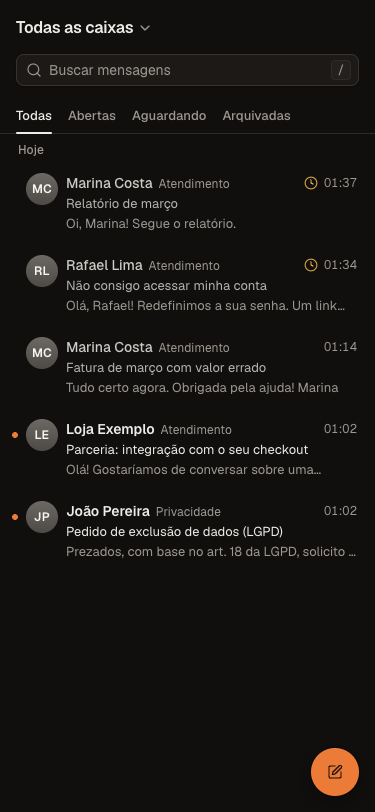
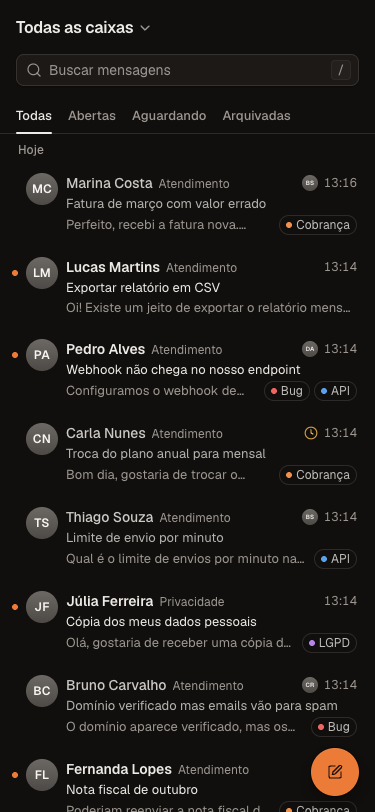
docs(web): screenshots and README for the new UI
Fresh light/dark screenshots at 1440px and 375px from a local ember dev with demo data: inbox list (tags,
assignees, waiting), conversation with the activity timeline, compose dock with signature, tag menu, command
palette, Adiadas, admin overview, and the phone list, conversation and full-screen composer. The web README
gets a Screenshots section, a Phone row, and how to sign in and make the demo member an admin; the root
README lists the web inbox.

diff --git a/apps/web/README.md b/apps/web/README.md
@@ -8,15 +8,27 @@ Stack: [Vite+](https://viteplus.dev) (`vp`), React 19, [shadcn/ui](https://ui.sh
 Better Auth's client, and Ember's React client (`@freecorps/ember-react` over `@freecorps/ember-client`). It calls the
 same `inbox:*` functions as mobile.
 
-| Inbox                                             | Conversation                                              | Compose                                               |
+## Screenshots
+
+Taken at 1440 × 900 and 375 × 812 from a local `ember dev` with the sample data under [Develop](#develop), a few more
+inbound demo conversations and a second teammate (`.test` addresses only), in pt-BR.
+
+| Inbox: tags, assignees, Aguardando                | Conversation: activity, note, signature                   | Compose windows (one open, one minimized)             |
 | ------------------------------------------------- | --------------------------------------------------------- | ----------------------------------------------------- |
 | ![Inbox, light](docs/screenshots/inbox-light.png) | ![Conversation, light](docs/screenshots/thread-light.png) | ![Compose, light](docs/screenshots/compose-light.png) |
 | ![Inbox, dark](docs/screenshots/inbox-dark.png)   | ![Conversation, dark](docs/screenshots/thread-dark.png)   | ![Compose, dark](docs/screenshots/compose-dark.png)   |
 
-| ⌘K                                                            | Phone (375px)                                     |
-| ------------------------------------------------------------- | ------------------------------------------------- |
-| ![Command palette, light](docs/screenshots/palette-light.png) | ![Phone, light](docs/screenshots/phone-light.png) |
-| ![Command palette, dark](docs/screenshots/palette-dark.png)   | ![Phone, dark](docs/screenshots/phone-dark.png)   |
+| Tag menu (`l`)                                      | ⌘K on the open conversation                                   | Adiadas (snoozed)                                     |
+| --------------------------------------------------- | ------------------------------------------------------------- | ----------------------------------------------------- |
+| ![Tag menu, light](docs/screenshots/tags-light.png) | ![Command palette, light](docs/screenshots/palette-light.png) | ![Snoozed, light](docs/screenshots/snoozed-light.png) |
+| ![Tag menu, dark](docs/screenshots/tags-dark.png)   | ![Command palette, dark](docs/screenshots/palette-dark.png)   | ![Snoozed, dark](docs/screenshots/snoozed-dark.png)   |
+
+| Phone: list                                       | Phone: conversation                                                   | Phone: composer (full screen)                                      |
+| ------------------------------------------------- | --------------------------------------------------------------------- | ------------------------------------------------------------------ |
+| ![Phone, light](docs/screenshots/phone-light.png) | ![Phone conversation, light](docs/screenshots/phone-thread-light.png) | ![Phone composer, light](docs/screenshots/phone-compose-light.png) |
+| ![Phone, dark](docs/screenshots/phone-dark.png)   | ![Phone conversation, dark](docs/screenshots/phone-thread-dark.png)   | ![Phone composer, dark](docs/screenshots/phone-compose-dark.png)   |
+
+The admin screen is under [Administration](#administration).
 
 ## Features
 
@@ -44,6 +56,7 @@ same `inbox:*` functions as mobile.
 | Keyboard                          | `j`/`k` (or ↓/↑) move through the list, and open the next thread when one is already open. `Enter`/`o` opens. `x` selects, `shift+j`/`shift+k` extend the selection. `e` archives (the selection when there is one). `u` marks unread. `h` snoozes, `l` tags. `r` replies. `n` writes a note. `c` composes. `i` shows the context panel. `/` searches. `[` collapses or expands the sidebar. `⌘K` / `Ctrl+K` opens the command palette (go to a view, mailbox or admin section, search conversations, archive / assign / change status on the open one, compose, theme, density, layout), with no open/close animation. `Esc` leaves a field or closes the thread. `?` lists all the shortcuts. Shortcuts keep working after a click inside an email (the frame forwards keys). `⌘/Ctrl+Enter` sends, `⌘/Ctrl+Shift+Enter` sends later. In a compose window `Esc` minimizes it and the inbox keys stay off.                                                                                                                                                                                                                                                                                                                                                                                                                                                                                                                                                                                                 |
 | Context panel                     | `i` or the header button: the contact (copy the address), their earlier conversations (`inbox:search` on their address, every mailbox you see) and every file in the conversation. Beside the messages when the pane is at least 760px wide (remembered), over them otherwise (each time).                                                                                                                                                                                                                                                                                                                                                                                                                                                                                                                                                                                                                                                                                                                                                                                                                                                                                                                                                                                                                                                                                                                                                                                                                  |
 | Accessibility                     | Semantic landmarks (`nav`, `main`, sections with labels), real buttons and links, Radix menus and dialogs (focus trap, Esc, roving focus), `aria-current` on the open thread and mailbox, screen-reader text for unread state, visible focus rings, and `prefers-reduced-motion`.                                                                                                                                                                                                                                                                                                                                                                                                                                                                                                                                                                                                                                                                                                                                                                                                                                                                                                                                                                                                                                                                                                                                                                                                                           |
+| Phone                             | One pane at a time below 768px: the sidebar is a picker in the list header, a floating button composes, the conversation has its actions in the back bar, and below 640px compose windows open full screen. `viewport-fit=cover` with safe-area padding (shell, button, toasts, the compose dock), 16px editor text on touch screens so iOS does not zoom, no long-press selection on controls, and a `theme-color` that follows the chosen theme.                                                                                                                                                                                                                                                                                                                                                                                                                                                                                                                                                                                                                                                                                                                                                                                                                                                                                                                                                                                                                                                          |
 | Theme                             | System, light or dark, and a comfortable or compact density, set in the account menu. Both are applied before first paint (`public/theme.js`). Email bodies stay on white, as senders design them. Type scale, radius, elevation, density and motion are tokens in `src/index.css`.                                                                                                                                                                                                                                                                                                                                                                                                                                                                                                                                                                                                                                                                                                                                                                                                                                                                                                                                                                                                                                                                                                                                                                                                                         |
 
 Not in the web inbox: push and the offline replica. Mobile keeps mail on the device. The web keeps nothing in browser
@@ -68,9 +81,9 @@ the `console:*` functions (`apps/api/ember/console.ts`), which check `admin` on 
 A personal mailbox stays its owner's business here too: admins see that it exists and who owns it, never its counts,
 its sent emails or its suppressions.
 
-| Light                                                      | Dark                                                      |
-| ---------------------------------------------------------- | --------------------------------------------------------- |
-| ![Admin overview, light](docs/screenshots/admin-light.png) | ![Admin mailboxes, dark](docs/screenshots/admin-dark.png) |
+| Light                                                      | Dark                                                     |
+| ---------------------------------------------------------- | -------------------------------------------------------- |
+| ![Admin overview, light](docs/screenshots/admin-light.png) | ![Admin overview, dark](docs/screenshots/admin-dark.png) |
 
 ## Same origin
 
@@ -96,9 +109,14 @@ provides `vp`, so the global CLI is optional.
 cd apps/api && EMBER_ADMIN_TOKEN=dev-admin bunx ember dev --port 8790
 # terminal 2: sample data (mailboxes, a member bia@acme.test / ember-mail-dev-123, inbound mail)
 cd apps/mobile && EMBER_URL=http://127.0.0.1:8790 bun scripts/seed-dev.ts
-# terminal 3: the web inbox at http://localhost:5180
+# terminal 3: the web inbox at http://localhost:5180 (PORT=… for another port)
 cd apps/web && MAIL_API_URL=http://127.0.0.1:8790 bun run dev
 ```
+
+Sign in as `bia@acme.test` / `ember-mail-dev-123`. The seed gives that member both mailboxes and four conversations,
+plus a teammate (Caio Rocha) to assign to. To make Bia an admin (for **Administração**), post her again with
+`admin: true` (`POST /inbox/members { user_id, name, mailboxes, admin: true }`, `Bearer dev-admin`; the seed prints
+the user id). Tags, snoozes, notes and replies are made in the app.
 
 | Script               | What                                                                                                                            |
 | -------------------- | ------------------------------------------------------------------------------------------------------------------------------- |
@@ -121,10 +139,9 @@ first use.
 
 The root `bun run check` runs typecheck, `vp check`, every test and this build. CI runs the same.
 
-Before this PR, the app was checked end to end in a real browser against `ember dev` seeded with the script above.
-The run covered sign-in, the inbox with unread counts, `j`/`Enter`, the sandboxed HTML message with its tracker
-blocked by CSP, the signed PDF link, reply (`r`, ⌘Enter), note (`n`), assign, compose (`c`), archive (`e`), search
-(`/`) and sign-out. It ran both through the Vite+ proxy and through the production Worker (`wrangler dev`).
+The app has been checked end to end in a real browser against that setup, through the Vite+ proxy and through the
+production Worker (`wrangler dev`): sign-in, the lists and counts, `j`/`Enter`, the sandboxed HTML message with its
+tracker blocked by CSP, the signed PDF link, reply, note, assign, compose, archive, search and sign-out.
 
 ## Deploy (Cloudflare Workers static assets)
 

diff --git a/README.md b/README.md
@@ -3,11 +3,16 @@
 **pt-BR** · [English](#english)
 
 Serviço de email self-hosted na Cloudflare, feito sobre o [Ember](https://github.com/freecorps/ember) ("Convex na
-Cloudflare"). Tem três partes:
+Cloudflare"). Tem quatro partes:
 
 - API HTTP no estilo do Resend, com chaves, idempotência, templates, supressões e domínios;
 - inbox para `support@`/`privacy@`, com push;
+- inbox web: lista com etiquetas e responsáveis, conversa com o histórico de atividade, janelas de composição com
+  assinatura, adiar, envio agendado, presença, paleta ⌘K e atalhos de teclado, tela de administração, layout para
+  celular (ver [`apps/web/README.md`](apps/web/README.md));
 - app móvel (Expo).
+
+![Inbox web](apps/web/docs/screenshots/thread-light.png)
 
 Roda na sua conta Cloudflare: Workers, Durable Objects, R2, Queues, Email Service e Email Routing. Licença MIT.
 
@@ -95,10 +100,13 @@ Veja [`AGENTS.md`](AGENTS.md): decisões de stack, skills instaladas (`.agents/s
 ## English
 
 Self-hosted email service on Cloudflare, built on [Ember](https://github.com/freecorps/ember) ("Convex on
-Cloudflare"). It has three parts:
+Cloudflare"). It has four parts:
 
 - a Resend-style HTTP API with keys, idempotency, templates, suppressions and domains;
 - an inbox for `support@`/`privacy@`, with push;
+- a web inbox: a list with tags and assignees, the conversation with its activity, compose windows with signatures,
+  snooze, scheduled send, presence, a ⌘K palette and keyboard shortcuts, the admin screen, a phone layout (see
+  [`apps/web/README.md`](apps/web/README.md));
 - a mobile app (Expo).
 
 It runs in your own Cloudflare account: Workers, Durable Objects, R2, Queues, Email Service and Email Routing. MIT

diff --git a/docs/plans/ui-overhaul.md b/docs/plans/ui-overhaul.md
@@ -253,4 +253,4 @@ Release e bump.
 |---|---|
 | Passada de movimento + break-ui | web em review (`ui/web/08-polish`); mobile todo |
 | Admin + web no celular | web em review (`ui/web/08-polish`) |
-| Screenshots + READMEs | todo |
+| Screenshots + READMEs | web em review (`ui/web/09-docs`); mobile todo |
